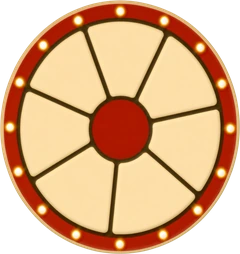
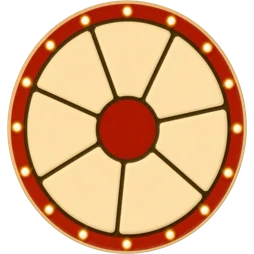
fix(mcschmutzo): BONUS label (no shadow), white stop-square, bigger paytable sauces, round wheel
- BONUS button: drop the text drop-shadow; keep the label centred.
- Desktop spin stop-square: recolour the yellow art to pure white (landscape/
  portrait already white).
- Paytable first row: enlarge the sauce symbols.
- Buy-bonus Super Bonus wheel: pad the source to square so it renders a perfect
  circle instead of a slightly oval one.

diff --git a/apps/mcschmutzo/src/components/HudHtml.svelte b/apps/mcschmutzo/src/components/HudHtml.svelte
@@ -1970,7 +1970,8 @@
 		transform: translate(-50%, -50%);
 		object-fit: contain;
 		pointer-events: none;
-		filter: drop-shadow(0 2px 5px rgba(0, 0, 0, 0.55));
+		/* Pure white square (the source art is yellow) with a subtle shadow after the recolour. */
+		filter: brightness(0) invert(1) drop-shadow(0 2px 5px rgba(0, 0, 0, 0.55));
 	}
 
 	.spin-btn__count {
@@ -2021,11 +2022,11 @@
 		font-weight: 400;
 		letter-spacing: 0.01em;
 		white-space: nowrap;
-		/* White label to match the design's baked "BONUS" text. */
+		/* White label to match the design's baked "BONUS" text (no shadow). */
 		color: #ffffff;
-		filter: drop-shadow(0 1px 3px rgba(0, 0, 0, 0.75));
 		line-height: 1;
 		pointer-events: none;
+		text-align: center;
 	}
 
 	/* Scatter card keeps its original (tighter) hide breakpoint. */

diff --git a/apps/mcschmutzo/src/components/CustomTutorialModal.svelte b/apps/mcschmutzo/src/components/CustomTutorialModal.svelte
@@ -513,7 +513,7 @@
 		object-fit: contain;
 	}
 	.pt-sym--multi img {
-		height: clamp(24px, 4.4vmin, 42px);
+		height: clamp(30px, 5.6vmin, 56px);
 	}
 	.pt-val {
 		min-width: 0;
